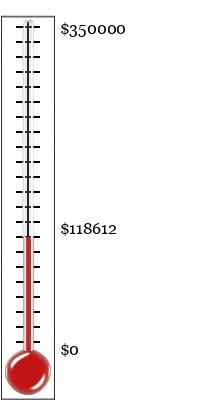
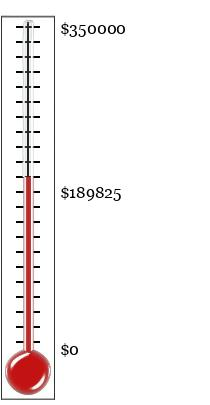
2024 fundraising update: Total funds raised $189825; Google/Alphabet becomes Platinum

Changed region(s): [[0.2857, 0.4444, 0.5714, 0.5037], [0.2857, 0.5333, 0.5714, 0.5926], [0.0857, 0.4148, 0.1714, 0.5926]]

diff --git a/contributors.html b/contributors.html
@@ -111,6 +111,7 @@ On request we will provide a link to your website for donations of
 <LI> Platinum: $50,000 to $100,000
 <UL>
 <LI><A HREF=donations.html>Total from smaller donors</A>
+<LI><A HREF=https://www.google.com>Google</A>
 </UL>
 <LI> Gold: $25,000 to $50,000
 <LI> Silver: $10,000 to $25,000
@@ -125,8 +126,6 @@ On request we will provide a link to your website for donations of
 <LI><A HREF=https://canary.tools>Thinkst Canary</A>
 </UL>
 </UL>
-<HR>
-
 <HR>
 <A HREF=campaign2023.html><h4>2023 Fundraising Campaign</h4></A>
 <EM><A HREF=activities.html#2023>2023 Supported Activities</A></EM>
@@ -157,8 +156,6 @@ On request we will provide a link to your website for donations of
 <LI><A HREF=https://www.netelysis.com>Netelysis</A>
 </UL>
 </UL>
-<HR>
-
 <HR>
 <A HREF=campaign2022.html><h4>2022 Fundraising Campaign</h4></A>
 <EM><A HREF=activities.html#2022>2022 Supported Activities</A></EM>
